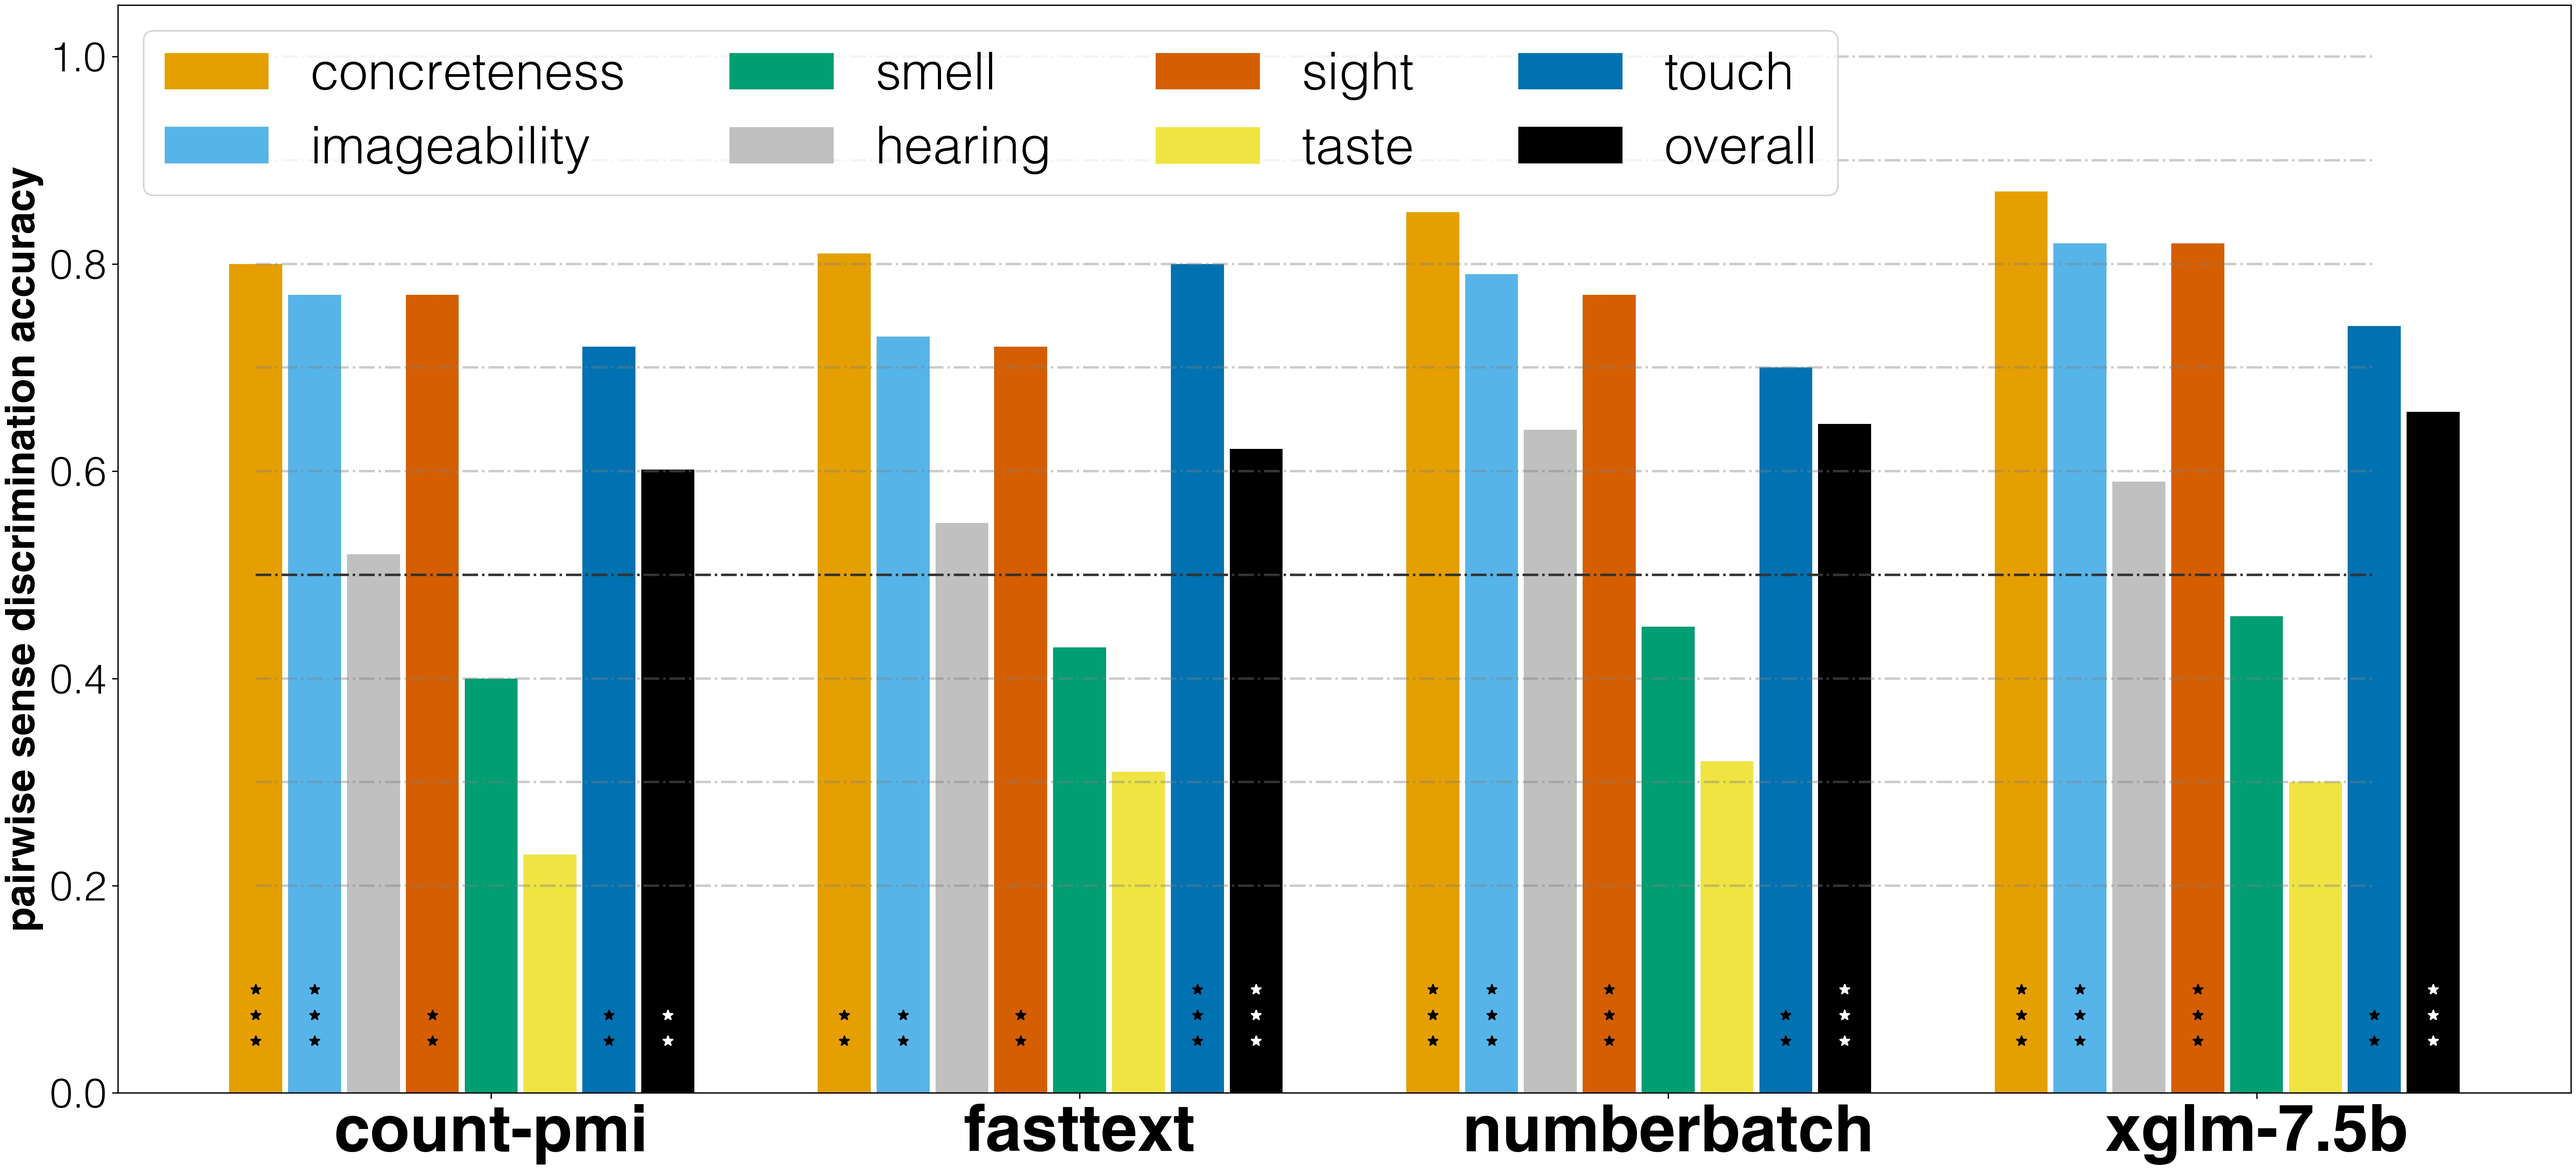
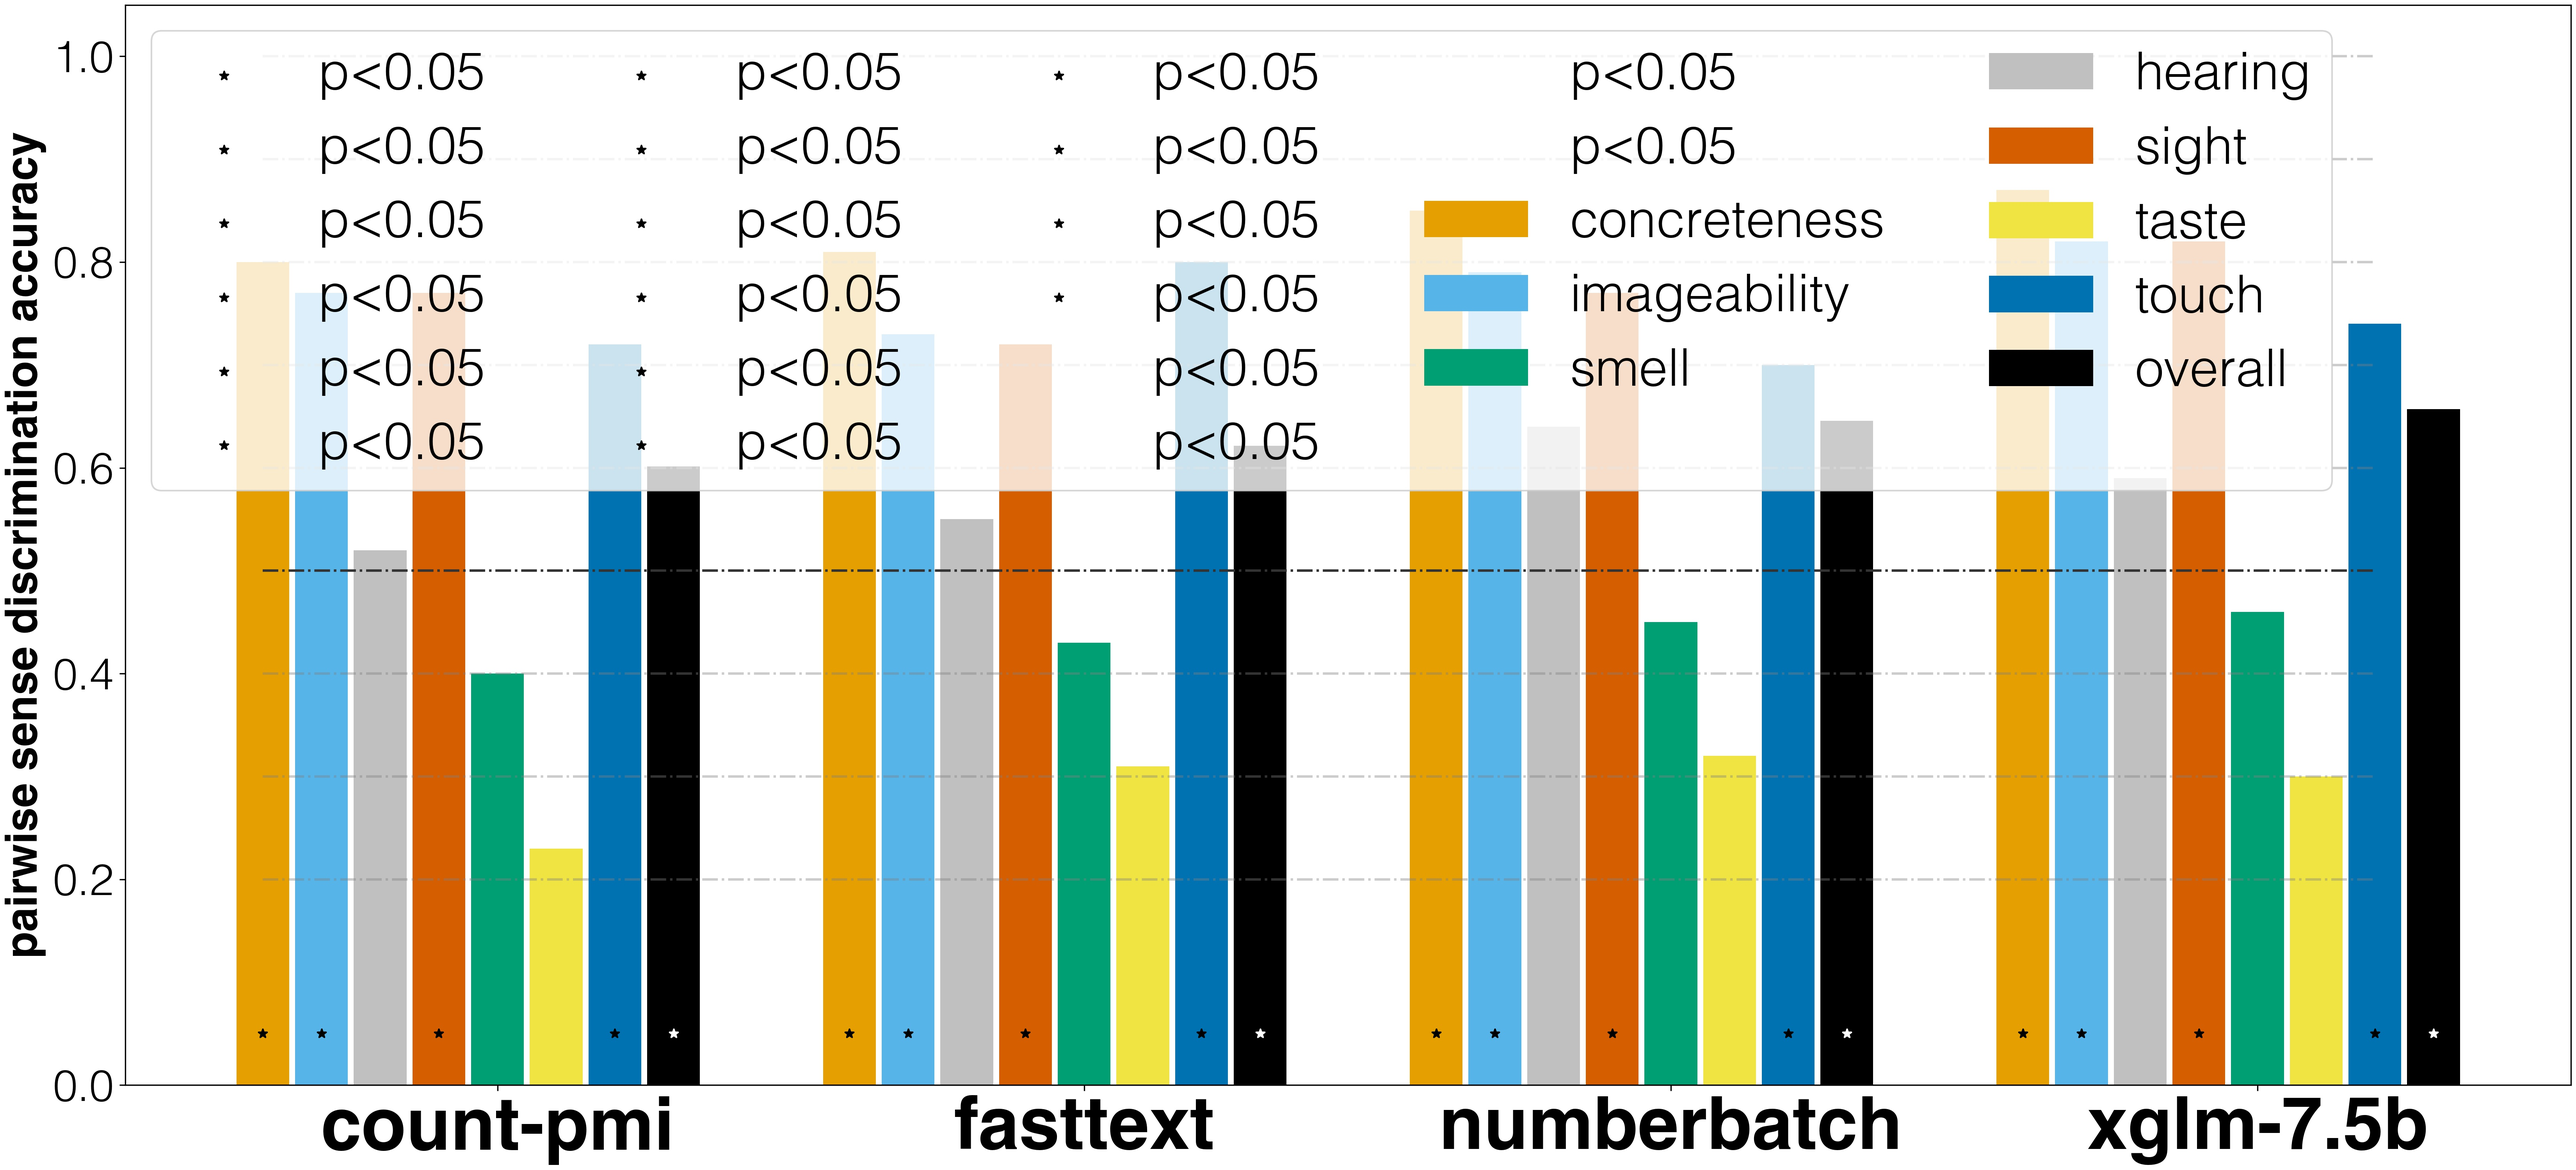
prova

Changed region(s): [[0.0, 0.031, 0.9364, 1.0], [0.7803, 0.837, 0.9676, 1.0]]

diff --git a/07_rsa_and_evaluation.py b/07_rsa_and_evaluation.py
@@ -458,6 +458,7 @@ if len(models_sorted) > 3:
     fig, ax = pyplot.subplots(constrained_layout=True, figsize=(22,10))
 else:
     fig, ax = pyplot.subplots(constrained_layout=True, figsize=(12,10))
+counter = 0
 with open('{}.txt'.format(out_file), 'w') as o:
     o.write('model\tsemantic_variable\tpairwise_accuracy\tp-value\n')
     for var_i, var in enumerate(variables):
@@ -476,11 +477,23 @@ with open('{}.txt'.format(out_file), 'w') as o:
             else:
                 p_color = 'black'
             if p < 0.05:
-                ax.scatter([m_i+corrections[var_i]], [0.05], marker='*', color=p_color, zorder=2.5)
-            if p < 0.005:
-                ax.scatter([m_i+corrections[var_i]], [0.075], marker='*', color=p_color, zorder=2.5)
-            if p < 0.0005:
-                ax.scatter([m_i+corrections[var_i]], [0.1], marker='*', color=p_color, zorder=2.5)
+                if counter==0:
+                    label='p<0.05'
+                else:
+                    label=''
+                ax.scatter(
+                           [m_i+corrections[var_i]], 
+                           [0.05], 
+                           marker='*', 
+                           color=p_color, 
+                           zorder=2.5,
+                           s=30.,
+                           label=label
+                           )
+            #if p < 0.005:
+            #    ax.scatter([m_i+corrections[var_i]], [0.075], marker='*', color=p_color, zorder=2.5)
+            #if p < 0.0005:
+            #    ax.scatter([m_i+corrections[var_i]], [0.1], marker='*', color=p_color, zorder=2.5)
         '''
         ### scatters
         for x, res in zip(xs, results):
@@ -498,14 +511,14 @@ for col_name, pal in palette.items():
 ax.set_xticks([i+(len(corrections)/20) for i in range(len(sims.keys()))])
 ax.set_xticklabels(
                    [m.replace('_mid_four', '') for m in models_sorted], 
-                   fontsize=40, 
+                   fontsize=45, 
                    ha='center', 
                    #rotation=45, 
                    fontweight='bold'
                    )
-pyplot.yticks(fontsize=25)
-ax.legend(fontsize=32, ncol=4, loc=2)
-ax.set_ylabel('pairwise sense discrimination accuracy', fontsize=25, fontweight='bold')
+pyplot.yticks(fontsize=27)
+ax.legend(fontsize=32, ncol=5, loc=2)
+ax.set_ylabel('pairwise sense discrimination accuracy', fontsize=27, fontweight='bold')
 
 pyplot.savefig('{}.jpg'.format(out_file), dpi=300)
 pyplot.clf()
